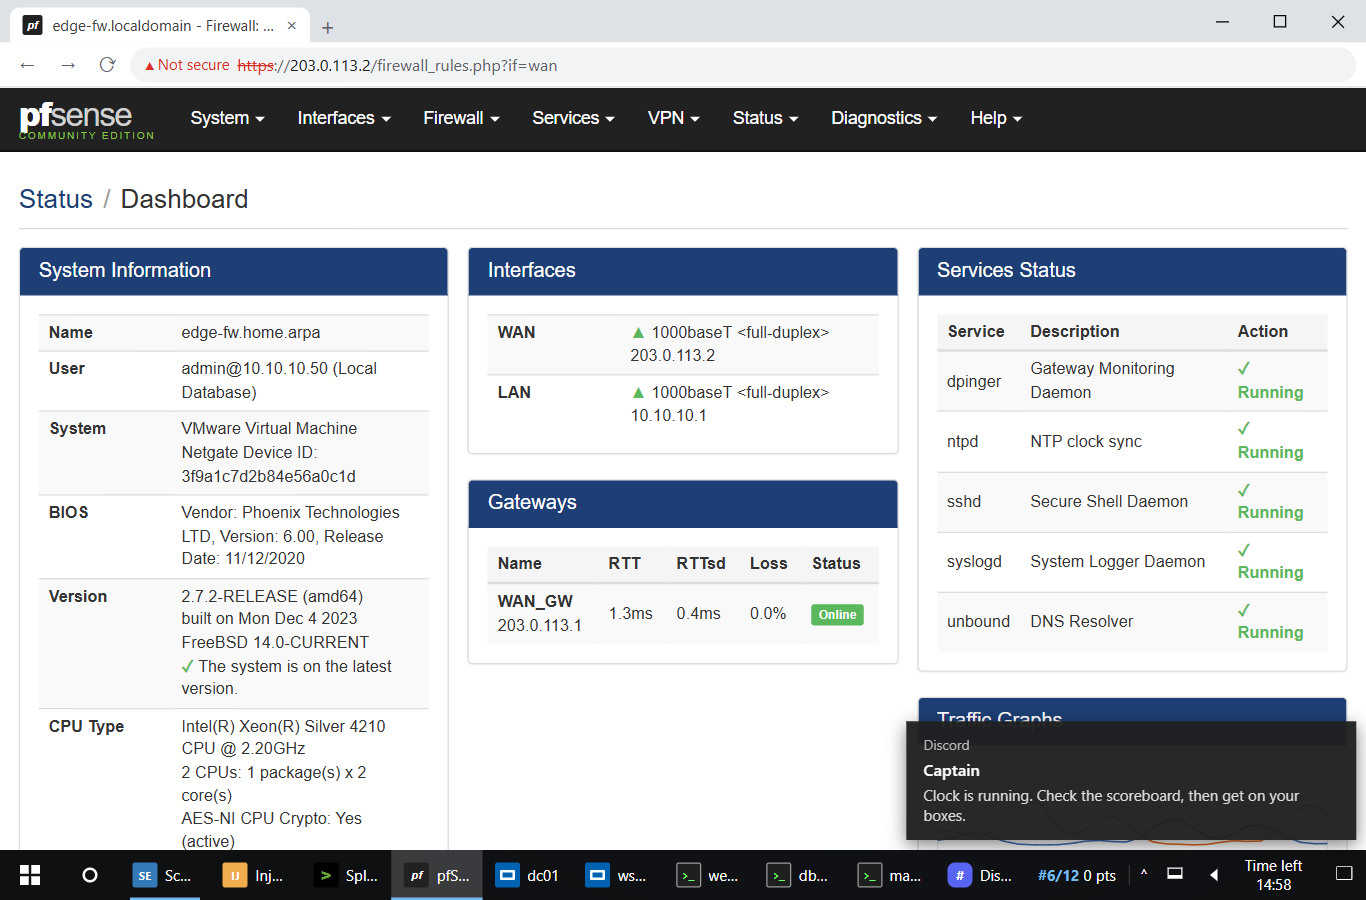
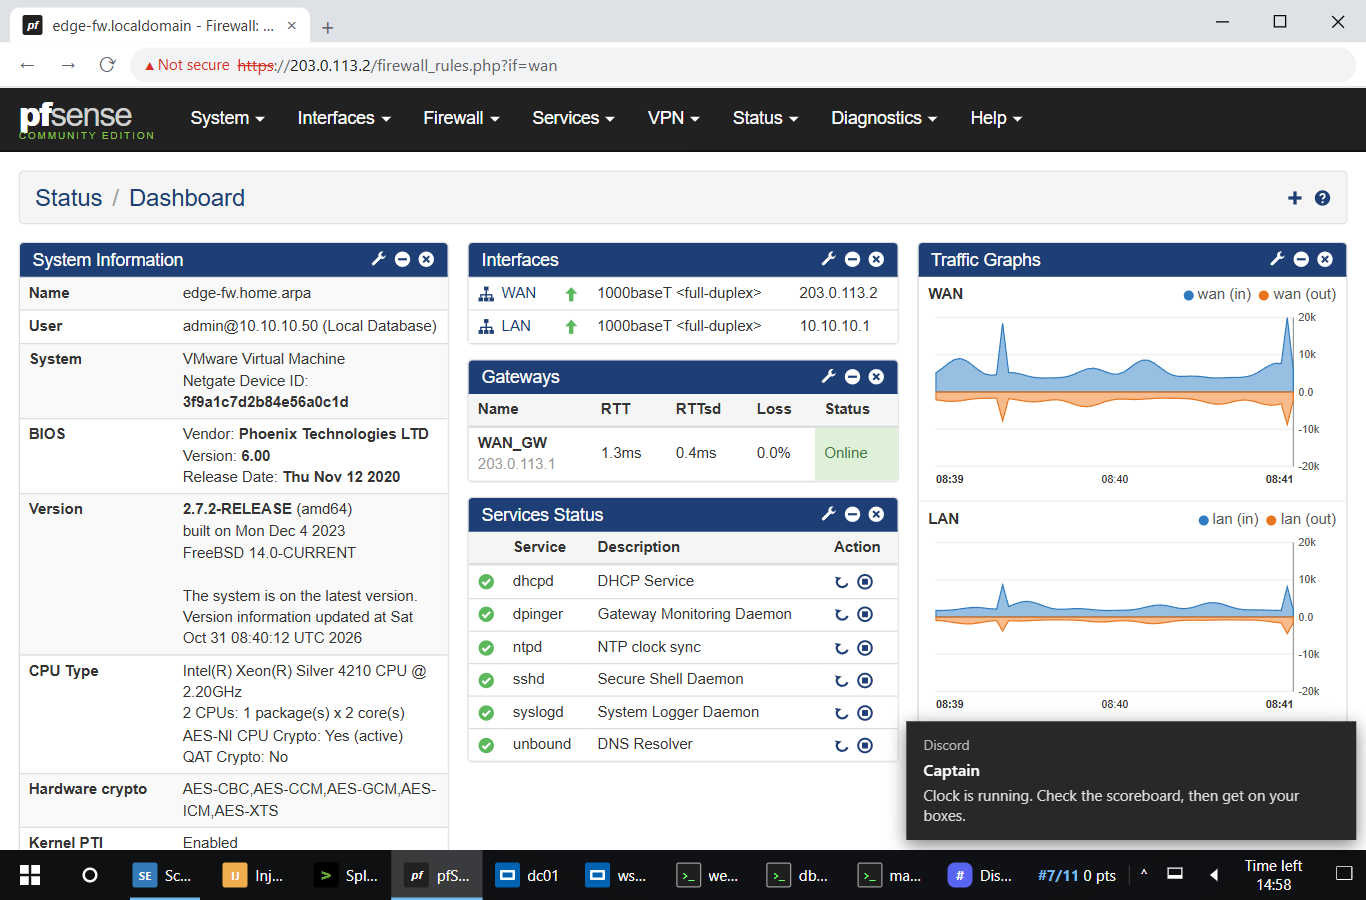
ADUC: expand the OU tree on open; pfSense dashboard matched to the 2.7 reference
- ADUC opens with the domain and every parent OU expanded, OUs use the OU icon
- pfSense: grey page-header breadcrumb with icons, widget heading icons, one-row
  interfaces, icon service status/actions, thin bars with text below, WAN+LAN
  traffic graphs with legend/axes, MDS/QAT rows, DNS bullets
- docs/reference/README.md: second side-by-side pass

diff --git a/src/ui/ccdc/PfSenseApp.js b/src/ui/ccdc/PfSenseApp.js
@@ -17,6 +17,21 @@ const el = (tag, cls, ...kids) => {
   return h(tag, { class: cls, ...attrs }, ...kids);
 };
 
+// Small inline SVG icons in the look of the Font Awesome glyphs the real webConfigurator uses.
+const PF_ICONS = {
+  wrench: '<path d="M14.5 4.2a3.6 3.6 0 01-4.8 3.4L4 13.3a1.4 1.4 0 01-2-2l5.7-5.7a3.6 3.6 0 014.6-4.6L10.2 3.1l.5 2.2 2.2.5z" fill="currentColor"/>',
+  minus: '<circle cx="8" cy="8" r="7" fill="currentColor"/><rect x="4" y="7" width="8" height="2" fill="#1e3f75"/>',
+  close: '<circle cx="8" cy="8" r="7" fill="currentColor"/><path d="M5.2 5.2l5.6 5.6M10.8 5.2l-5.6 5.6" stroke="#1e3f75" stroke-width="1.8"/>',
+  plus: '<path d="M8 2v12M2 8h12" stroke="currentColor" stroke-width="3"/>',
+  help: '<circle cx="8" cy="8" r="7" fill="currentColor"/><path d="M5.9 6.1a2.1 2.1 0 114.1.8c-.4.9-1.9 1.1-1.9 2.4" stroke="#fff" stroke-width="1.6" fill="none"/><circle cx="8.1" cy="11.9" r=".95" fill="#fff"/>',
+  net: '<rect x="6" y="1" width="4" height="3.5" fill="currentColor"/><rect x="1" y="11" width="4" height="3.5" fill="currentColor"/><rect x="6" y="11" width="4" height="3.5" fill="currentColor"/><rect x="11" y="11" width="4" height="3.5" fill="currentColor"/><path d="M8 4.5v4M3 11V8.5h10V11M8 8.5V11" stroke="currentColor" stroke-width="1.3" fill="none"/>',
+  up: '<path d="M8 1.5l5.5 6H10v7H6v-7H2.5z" fill="currentColor"/>',
+  okcircle: '<circle cx="8" cy="8" r="7" fill="currentColor"/><path d="M4.5 8.2l2.4 2.4 4.6-4.8" stroke="#fff" stroke-width="2" fill="none"/>',
+  restart: '<path d="M12.6 9.5A5 5 0 113 6.2" stroke="currentColor" stroke-width="2" fill="none"/><path d="M1 3.4l2.6 4 3.4-3z" fill="currentColor"/>',
+  stop: '<circle cx="8" cy="8" r="6.2" stroke="currentColor" stroke-width="1.8" fill="none"/><rect x="5.3" y="5.3" width="5.4" height="5.4" fill="currentColor"/>',
+};
+const pfIcon = (name) => { const s = h('span', { class: `pf-i pf-i-${name}`, 'aria-hidden': 'true' }); s.innerHTML = `<svg viewBox="0 0 16 16" width="14" height="14">${PF_ICONS[name]}</svg>`; return s; };
+
 const MENUS = [
   ['System', [['Advanced'], ['General Setup'], ['High Availability Sync'], ['Package Manager'], ['Routing'], ['Setup Wizard'], ['Update'], ['User Manager']]],
   ['Interfaces', [['Assignments'], ['WAN'], ['LAN']]],
@@ -117,10 +132,11 @@ export class PfSenseApp {
     this.root.scrollTop = 0;
   }
 
-  crumbs(list) {
+  crumbs(list, dash = false) {
+    // Real pages: the breadcrumb sits in a grey header bar; the last crumb is a link, with page icons on the right.
     const ol = el('ol', 'pf-breadcrumb');
     list.forEach((c, i) => ol.append(el('li', i === list.length - 1 ? 'pf-active' : '', c)));
-    return ol;
+    return el('div', 'pf-pagehead', ol, el('span', 'pf-pagehead-icons', ...(dash ? [pfIcon('plus')] : []), pfIcon('help')));
   }
 
   render() {
@@ -146,79 +162,106 @@ export class PfSenseApp {
     return el('div', `pf-panel ${extraCls}`, el('div', 'pf-panel-heading', el('h2', 'pf-panel-title', title)), el('div', 'pf-panel-body', body));
   }
 
+  // Dashboard widget: compact heading with the wrench / minimise / close icons on the right, like the real widgets.
+  widget(title, body, { wrench = true } = {}) {
+    const icons = el('span', 'pf-widget-icons', ...(wrench ? [pfIcon('wrench')] : []), pfIcon('minus'), pfIcon('close'));
+    return el('div', 'pf-panel pf-widget pf-nopad', el('div', 'pf-panel-heading', el('h2', 'pf-panel-title', title), icons), el('div', 'pf-panel-body', body));
+  }
+
   alertBox(kind, ...kids) { return el('div', `pf-alert pf-alert-${kind}`, ...kids); }
 
   // ---- Dashboard ---------------------------------------------------------------------------------------
   renderDash(c) {
-    c.append(this.crumbs(PAGE_CRUMBS.dash));
-    const bar = (key) => {
+    c.append(this.crumbs(PAGE_CRUMBS.dash, true));
+    // Real widget bars: a thin bar with the figure on its own line underneath ("0% (404/815000) Show states").
+    const bar = (key, extra) => {
       const fill = el('div', 'pf-bar-fill');
       const txt = el('span', 'pf-bar-text');
       this.refs[key] = { fill, txt };
-      return el('div', 'pf-progress', fill, txt);
+      return el('div', 'pf-barwrap', el('div', 'pf-progress', fill), el('div', '', txt, ...(extra ? [' ', extra] : [])));
     };
+    const link = (t) => h('a', { href: '#', onclick: (e) => e.preventDefault() }, t);
     const row = (k, v) => el('tr', '', el('th', '', k), el('td', '', v));
     const mk = (k) => { const s = el('span', ''); this.refs[k] = s; return s; };
-    const sysInfo = el('table', 'pf-table pf-kv',
+    const sysInfo = el('table', 'pf-table pf-kv pf-sysinfo',
       row('Name', `${this.host}.home.arpa`),
       row('User', 'admin@10.10.10.50 (Local Database)'),
-      row('System', el('span', '', 'VMware Virtual Machine', el('br'), 'Netgate Device ID: 3f9a1c7d2b84e56a0c1d')),
-      row('BIOS', 'Vendor: Phoenix Technologies LTD, Version: 6.00, Release Date: 11/12/2020'),
-      row('Version', el('span', '', `${PF_VERSION} (amd64)`, el('br'), 'built on Mon Dec 4 2023', el('br'), 'FreeBSD 14.0-CURRENT', el('br'), el('i', 'pf-ok', '✓ '), 'The system is on the latest version.')),
-      row('CPU Type', el('span', '', 'Intel(R) Xeon(R) Silver 4210 CPU @ 2.20GHz', el('br'), '2 CPUs: 1 package(s) x 2 core(s)', el('br'), 'AES-NI CPU Crypto: Yes (active)')),
-      row('Hardware crypto', 'Inactive'),
+      row('System', el('span', '', 'VMware Virtual Machine', el('br'), 'Netgate Device ID: ', el('b', '', '3f9a1c7d2b84e56a0c1d'))),
+      row('BIOS', el('span', '', 'Vendor: ', el('b', '', 'Phoenix Technologies LTD'), el('br'), 'Version: ', el('b', '', '6.00'), el('br'), 'Release Date: ', el('b', '', 'Thu Nov 12 2020'))),
+      row('Version', el('span', '', el('b', '', PF_VERSION), ' (amd64)', el('br'), 'built on Mon Dec 4 2023', el('br'), 'FreeBSD 14.0-CURRENT', el('br'), el('br'), 'The system is on the latest version.', el('br'), 'Version information updated at Sat Oct 31 08:40:12 UTC 2026')),
+      row('CPU Type', el('span', '', 'Intel(R) Xeon(R) Silver 4210 CPU @ 2.20GHz', el('br'), '2 CPUs: 1 package(s) x 2 core(s)', el('br'), 'AES-NI CPU Crypto: Yes (active)', el('br'), 'QAT Crypto: No')),
+      row('Hardware crypto', 'AES-CBC,AES-CCM,AES-GCM,AES-ICM,AES-XTS'),
       row('Kernel PTI', 'Enabled'),
+      row('MDS Mitigation', 'Inactive'),
       row('Uptime', mk('uptime')),
       row('Current date/time', mk('now')),
-      row('DNS server(s)', el('span', '', '127.0.0.1', el('br'), '10.10.10.10')),
+      row('DNS server(s)', el('ul', 'pf-bullets', el('li', '', '127.0.0.1'), el('li', '', '10.10.10.10'))),
       row('Last config change', mk('cfg')),
-      row('State table size', el('span', '', bar('states'))),
-      row('MBUF Usage', el('span', '', bar('mbuf'))),
+      row('State table size', bar('states', link('Show states'))),
+      row('MBUF Usage', bar('mbuf')),
       row('Load average', '0.12, 0.09, 0.05'),
       row('CPU usage', bar('cpu')),
       row('Memory usage', bar('mem')),
       row('SWAP usage', bar('swap')),
       row('Disk usage (/)', bar('disk')));
-    const ifs = el('table', 'pf-table pf-kv',
-      el('tr', '', el('th', '', 'WAN'), el('td', '', el('i', 'pf-ok', '▲ '), '1000baseT <full-duplex>', el('br'), this.dev.ip || '203.0.113.2')),
-      el('tr', '', el('th', '', 'LAN'), el('td', '', el('i', 'pf-ok', '▲ '), '1000baseT <full-duplex>', el('br'), '10.10.10.1')));
-    const gw = el('table', 'pf-table',
+    const ifRow = (name, media, ip) => el('tr', '', el('td', 'pf-ifname', pfIcon('net'), link(name)), el('td', 'pf-ifup', pfIcon('up')), el('td', '', media), el('td', '', ip));
+    const ifs = el('table', 'pf-table pf-plain',
+      el('tbody', '', ifRow('WAN', '1000baseT <full-duplex>', this.dev.ip || '203.0.113.2'),
+        ifRow('LAN', '1000baseT <full-duplex>', '10.10.10.1')));
+    const gw = el('table', 'pf-table pf-plain',
       el('thead', '', el('tr', '', ...['Name', 'RTT', 'RTTsd', 'Loss', 'Status'].map((t) => el('th', '', t)))),
-      el('tbody', '', el('tr', '', el('td', '', el('b', '', 'WAN_GW'), el('br'), '203.0.113.1'), el('td', '', '1.3ms'), el('td', '', '0.4ms'), el('td', '', '0.0%'), el('td', '', el('span', 'pf-label pf-label-ok', 'Online')))));
-    const svc = el('table', 'pf-table',
-      el('thead', '', el('tr', '', el('th', '', 'Service'), el('th', '', 'Description'), el('th', '', 'Action'))),
-      el('tbody', '', ...[['dpinger', 'Gateway Monitoring Daemon'], ['ntpd', 'NTP clock sync'], ['sshd', 'Secure Shell Daemon'], ['syslogd', 'System Logger Daemon'], ['unbound', 'DNS Resolver']]
-        .map(([n, d]) => el('tr', '', el('td', '', n), el('td', '', d), el('td', 'pf-ok', '✓ Running')))));
+      el('tbody', '', el('tr', '', el('td', '', el('b', '', 'WAN_GW'), el('br'), el('span', 'pf-muted', '203.0.113.1')), el('td', '', '1.3ms'), el('td', '', '0.4ms'), el('td', '', '0.0%'), el('td', 'pf-gw-ok', 'Online'))));
+    const svc = el('table', 'pf-table pf-plain pf-svc',
+      el('thead', '', el('tr', '', el('th', ''), el('th', '', 'Service'), el('th', '', 'Description'), el('th', '', 'Action'))),
+      el('tbody', '', ...[['dhcpd', 'DHCP Service'], ['dpinger', 'Gateway Monitoring Daemon'], ['ntpd', 'NTP clock sync'], ['sshd', 'Secure Shell Daemon'], ['syslogd', 'System Logger Daemon'], ['unbound', 'DNS Resolver']]
+        .map(([n, d]) => el('tr', '', el('td', 'pf-svc-st', { title: 'Running' }, pfIcon('okcircle')), el('td', '', n), el('td', '', d), el('td', 'pf-svc-act', pfIcon('restart'), pfIcon('stop'))))));
     c.append(el('div', 'pf-cols',
-      el('div', 'pf-col', this.panel('System Information', sysInfo)),
-      el('div', 'pf-col', this.panel('Interfaces', ifs), this.panel('Gateways', gw)),
-      el('div', 'pf-col', this.panel('Services Status', svc), this.panel('Traffic Graphs', this.trafficGraph()))));
+      el('div', 'pf-col', this.widget('System Information', sysInfo)),
+      el('div', 'pf-col', this.widget('Interfaces', ifs), this.widget('Gateways', gw), this.widget('Services Status', svc)),
+      el('div', 'pf-col', this.widget('Traffic Graphs', el('div', '', this.trafficGraph('WAN', 'wan'), this.trafficGraph('LAN', 'lan'))))));
     this.updateDash();
   }
 
-  trafficGraph() {
-    const W = 300; const H = 70;
-    const svg = document.createElementNS('http://www.w3.org/2000/svg', 'svg');
-    svg.setAttribute('viewBox', `0 0 ${W} ${H}`); svg.setAttribute('class', 'pf-graph'); svg.style.width = '100%';
-    const bg = document.createElementNS('http://www.w3.org/2000/svg', 'rect');
-    for (const [k, v] of Object.entries({ x: 0, y: 0, width: W, height: H, fill: '#fff', stroke: '#ccc' })) bg.setAttribute(k, v);
-    svg.append(bg);
-    for (let g = 1; g < 4; g++) { const l = document.createElementNS('http://www.w3.org/2000/svg', 'line'); for (const [k, v] of Object.entries({ x1: 0, x2: W, y1: (H / 4) * g, y2: (H / 4) * g, stroke: '#eee' })) l.setAttribute(k, v); svg.append(l); }
-    const mkp = (stroke) => { const p = document.createElementNS('http://www.w3.org/2000/svg', 'polyline'); p.setAttribute('fill', 'none'); p.setAttribute('stroke', stroke); p.setAttribute('stroke-width', '1.2'); svg.append(p); return p; };
-    const pi = mkp('#e36a1d'); const po = mkp('#3b6fb6');
-    this.refs.gIn = pi; this.refs.gOut = po;
-    const legend = el('div', 'pf-muted', el('span', '', { style: 'color:#e36a1d' }, '■ '), 'WAN in  ', el('span', '', { style: 'color:#3b6fb6' }, '■ '), 'WAN out');
-    return el('div', 'pf-graphbox', svg, legend);
+  // Real Traffic Graphs widget: interface title top-left, dot legend top-right, in (blue, above the axis) and out
+  // (orange, below it) as filled areas, y-axis labels on the right, time labels along the bottom.
+  trafficGraph(title, key) {
+    const NS = 'http://www.w3.org/2000/svg';
+    const W = 340; const H = 150; const PL = 6; const PR = 36; const PT = 8; const PB = 18;
+    const mkS = (tag, attrs, text) => { const n = document.createElementNS(NS, tag); for (const [k, v] of Object.entries(attrs)) n.setAttribute(k, v); if (text != null) n.textContent = text; return n; };
+    const svg = mkS('svg', { viewBox: `0 0 ${W} ${H}`, class: 'pf-graph' });
+    svg.style.width = '100%';
+    const mid = PT + (H - PT - PB) / 2;
+    for (const [i, lab] of ['20k', '10k', '0.0', '-10k', '-20k'].entries()) {
+      const y = PT + ((H - PT - PB) / 4) * i;
+      svg.append(mkS('line', { x1: PL, x2: W - PR, y1: y, y2: y, stroke: i === 2 ? '#bbb' : '#eee' }));
+      svg.append(mkS('text', { x: W - PR + 4, y: y + 3, 'font-size': 9, fill: '#555' }, lab));
+    }
+    svg.append(mkS('line', { x1: W - PR, x2: W - PR, y1: PT, y2: H - PB, stroke: '#999' }));
+    const tIn = mkS('path', { fill: 'rgba(66,139,202,.55)', stroke: '#2f7bbf', 'stroke-width': 1 });
+    const tOut = mkS('path', { fill: 'rgba(240,131,46,.55)', stroke: '#e8761e', 'stroke-width': 1 });
+    svg.append(tIn, tOut);
+    const tl = [0, 1, 2].map((i) => { const t = mkS('text', { x: PL + ((W - PR - PL) / 2) * i, y: H - 4, 'font-size': 9, fill: '#333', 'text-anchor': i === 0 ? 'start' : i === 2 ? 'end' : 'middle', 'font-weight': i === 1 ? 400 : 700 }, ''); svg.append(t); return t; });
+    (this.refs.graphs ||= []).push({ tIn, tOut, tl, geo: { W, PL, PR, mid, half: (H - PT - PB) / 2 }, seed: key === 'wan' ? 1 : 5, amp: key === 'wan' ? 0.75 : 0.35 });
+    const dot = (col) => el('span', 'pf-dot', { style: `background:${col}` });
+    return el('div', 'pf-graphbox',
+      el('div', 'pf-graph-head', el('span', 'pf-graph-title', title), el('span', 'pf-graph-legend', dot('#2f7bbf'), ` ${key} (in)  `, dot('#e8761e'), ` ${key} (out)`)),
+      svg);
   }
 
   updateGraph(s) {
-    const r = this.refs;
-    if (!r.gIn) return;
-    const pts = (seed, amp) => Array.from({ length: 30 }, (_, i) => {
-      const t = s - (29 - i) * 10; const v = 8 + amp * (0.5 + 0.5 * Math.sin(t / 37 + seed)) * (0.6 + 0.4 * Math.sin(t / 11 + seed * 3));
-      return `${(i * 300) / 29},${70 - Math.min(66, v)}`;
-    }).join(' ');
-    r.gIn.setAttribute('points', pts(1, 40)); r.gOut.setAttribute('points', pts(4, 22));
+    for (const g of this.refs.graphs || []) {
+      const { W, PL, PR, mid, half } = g.geo;
+      const N = 60; const step = (W - PR - PL) / (N - 1);
+      const val = (i, ph, a) => {
+        const t = s - (N - 1 - i) * 2;
+        const spike = (Math.floor(t / 2) % 47 === 0) ? 0.9 : 0;
+        return Math.min(1, a * (0.25 + 0.35 * (0.5 + 0.5 * Math.sin(t / 9 + ph)) * (0.6 + 0.4 * Math.sin(t / 3.3 + ph * 3))) + spike * a);
+      };
+      const area = (sign, ph, a) => { let d = `M${PL},${mid}`; for (let i = 0; i < N; i++) d += ` L${(PL + i * step).toFixed(1)},${(mid - sign * val(i, ph, a) * half).toFixed(1)}`; return `${d} L${W - PR},${mid} Z`; };
+      g.tIn.setAttribute('d', area(1, g.seed, g.amp)); g.tOut.setAttribute('d', area(-1, g.seed + 2, g.amp * 0.45));
+      const hm = (sec) => { const x = 8 * 3600 + 41 * 60 + sec; return `${String(Math.floor(x / 3600) % 24).padStart(2, '0')}:${String(Math.floor(x / 60) % 60).padStart(2, '0')}`; };
+      g.tl[0].textContent = hm(s - 120); g.tl[1].textContent = hm(s - 60); g.tl[2].textContent = hm(s);
+    }
   }
 
   setBar(key, pct, text) {

diff --git a/src/ui/ccdc/pfsense.css b/src/ui/ccdc/pfsense.css
@@ -90,6 +90,36 @@
 .pf .pf-label { display: inline-block; padding: .2em .6em; font-size: 75%; font-weight: 700; color: #fff; border-radius: .25em; }
 .pf .pf-label-ok { background: #5cb85c; }
 
+/* dashboard (matches the real 2.7 widgets: compact headings with icons, thin bars with the figure below, icon status cells) */
+.pf .pf-pagehead { display: flex; align-items: center; justify-content: space-between; background: #f5f5f5; border: 1px solid #e3e3e3; border-radius: 4px; padding: 0 12px; margin: 0 0 14px; }
+.pf .pf-pagehead .pf-breadcrumb { margin: 0; border: 0; padding: 7px 0; font-size: 19px; }
+.pf .pf-pagehead .pf-breadcrumb li.pf-active { color: #1e3f75; }
+.pf .pf-pagehead-icons { display: flex; gap: 8px; color: #1e3f75; }
+.pf .pf-i { display: inline-flex; vertical-align: middle; line-height: 0; }
+.pf .pf-widget { margin-bottom: 12px; }
+.pf .pf-widget > .pf-panel-heading { display: flex; align-items: center; justify-content: space-between; padding: 4px 10px; }
+.pf .pf-widget .pf-panel-title { font-size: 14px; }
+.pf .pf-widget-icons { display: flex; gap: 5px; color: #fff; }
+.pf .pf-widget .pf-table { font-size: 12px; }
+.pf .pf-widget .pf-table th, .pf .pf-widget .pf-table td { padding: 4px 7px; }
+.pf .pf-sysinfo th { width: 36%; }
+.pf .pf-plain tbody tr:nth-child(odd) { background: transparent; }
+.pf .pf-ifname { white-space: nowrap; }
+.pf .pf-ifname .pf-i { color: #1e3f75; margin-right: 5px; }
+.pf .pf-ifup { color: #5cb85c; width: 18px; }
+.pf .pf-gw-ok { background: #dff0d8; color: #3c763d; }
+.pf .pf-svc-st { color: #5cb85c; width: 20px; }
+.pf .pf-svc-act { color: #1e3f75; white-space: nowrap; }
+.pf .pf-svc-act .pf-i { margin-right: 4px; cursor: pointer; }
+.pf .pf-barwrap .pf-progress { height: 10px; min-width: 0; border-radius: 3px; margin: 3px 0 2px; }
+.pf .pf-barwrap .pf-bar-text { position: static; line-height: 1.4; font-size: 12px; text-align: left; }
+.pf .pf-bullets { list-style: disc; padding-left: 16px; }
+.pf .pf-graphbox { padding: 6px 8px 4px; border-bottom: 1px solid #eee; }
+.pf .pf-graph-head { display: flex; justify-content: space-between; font-size: 12px; margin-bottom: 2px; }
+.pf .pf-graph-title { font-weight: 700; }
+.pf .pf-graph-legend { color: #555; white-space: pre; }
+.pf .pf-dot { display: inline-block; width: 8px; height: 8px; border-radius: 50%; vertical-align: middle; }
+
 /* buttons */
 .pf .pf-btn { display: inline-block; padding: 6px 12px; font: inherit; font-size: 14px; line-height: 1.428; border: 1px solid transparent; border-radius: 4px; cursor: pointer; white-space: nowrap; }
 .pf .pf-btn[disabled] { opacity: .55; cursor: not-allowed; }

diff --git a/src/ui/ccdc/winApps.js b/src/ui/ccdc/winApps.js
@@ -212,13 +212,13 @@ export function createAduc(ctx) {
     };
     node(`Active Directory Users and Computers [${m.dc}.${m.domain}]`, 0, { icon: 'i-aduc', kids: true, expanded: true });
     node('Saved Queries', 1, { icon: 'i-folder', kids: true });
-    const walk = (dn, name, depth) => {
+    const walk = (dn, name, depth, kind) => {
       const kids = adTree(m, dn);
-      const expanded = st.open.has(dn) || dn === m.dn;
-      node(name, depth, { dn, icon: dn === m.dn ? 'i-domain' : 'i-folder', kids: kids.length > 0, expanded, on: st.cont === dn });
-      if (expanded) for (const k of kids) walk(k.dn, k.name, depth + 1);
+      const expanded = st.open.has(dn);
+      node(name, depth, { dn, icon: dn === m.dn ? 'i-domain' : kind === 'ou' ? 'i-ou' : 'i-folder', kids: kids.length > 0, expanded, on: st.cont === dn });
+      if (expanded) for (const k of kids) walk(k.dn, k.name, depth + 1, k.kind);
     };
-    walk(m.dn, m.domain, 1);
+    walk(m.dn, m.domain, 1, 'domain');
   }
   function renderList() {
     const m = m0();
@@ -244,7 +244,8 @@ export function createAduc(ctx) {
   }
   function render() {
     const m = m0();
-    if (!st.cont) { st.cont = m.ouByName.get('Users')?.dn || m.dn; st.open = new Set([m.dn]); }
+    // First open: expand the whole OU tree (domain + every OU that has child OUs) so the structure is visible at once.
+    if (!st.cont) { st.cont = m.ouByName.get('Users')?.dn || m.dn; st.open = new Set([m.dn, ...m.ous.filter((o) => adTree(m, o.dn).length).map((o) => o.dn)]); }
     const t = pane.scrollTop; const tt = tree.scrollTop;
     renderTree(); renderList();
     pane.scrollTop = t; tree.scrollTop = tt;

diff --git a/docs/reference/README.md b/docs/reference/README.md
@@ -18,6 +18,19 @@ All files come from Wikimedia Commons (free licences; see each file page for aut
   Version, CPU Type, Hardware crypto, Kernel PTI, Uptime, ...), same bar widgets for State table / MBUF.
   Ours uses the default light theme (blue panel headers); the reference uses pfSense-dark. Both are real themes.
   Gap: the real dashboard has a 3rd column (Services Status with green ticks, Traffic Graphs). Not built yet.
+- **pfSense dashboard, second pass (Nov 6, 2026)** (ours: docs/proof/pfsense-3col/dashboard-1366.png vs
+  pfsense-dashboard-2.7.png). Differences found and fixed:
+  1. Breadcrumb now sits in the grey page-header bar with the last crumb link-coloured and + / ? icons on the right.
+  2. Every widget heading has the wrench / minimise / close icons and a compact title, like the real widgets.
+  3. Interfaces: one row each with the network icon, green up arrow, media and IP (was two-line text rows).
+  4. Services Status: green check-circle column and blue restart / stop icons under Action (was "Running" text),
+     plus dhcpd. Gateways: green "Online" cell.
+  5. Bars are thin with the figure on the line below ("0% (404/98000) Show states"), as in the real widget.
+  6. System Information adds MDS Mitigation, QAT Crypto, bold BIOS / version values and a bulleted DNS list.
+  7. Traffic Graphs: one graph per interface (WAN, LAN) with title, dot legend, filled in (blue, above 0) /
+     out (orange, below 0) areas, y labels on the right and time labels along the bottom.
+  Remaining by choice: light theme (the 2.7 default) instead of pfSense-dark; no Disks / NTP / Installed
+  Packages / Netgate Support widgets (those widgets are optional in the real product).
 - **Still missing a reference (not on Commons, Microsoft/Splunk images are non-free):** Server Manager, AD Users
   and Computers, Splunk Search, a CCDC scoreboard. Soliman: drop a screenshot of each into this folder if you
   have one; the next run will compare against it.
